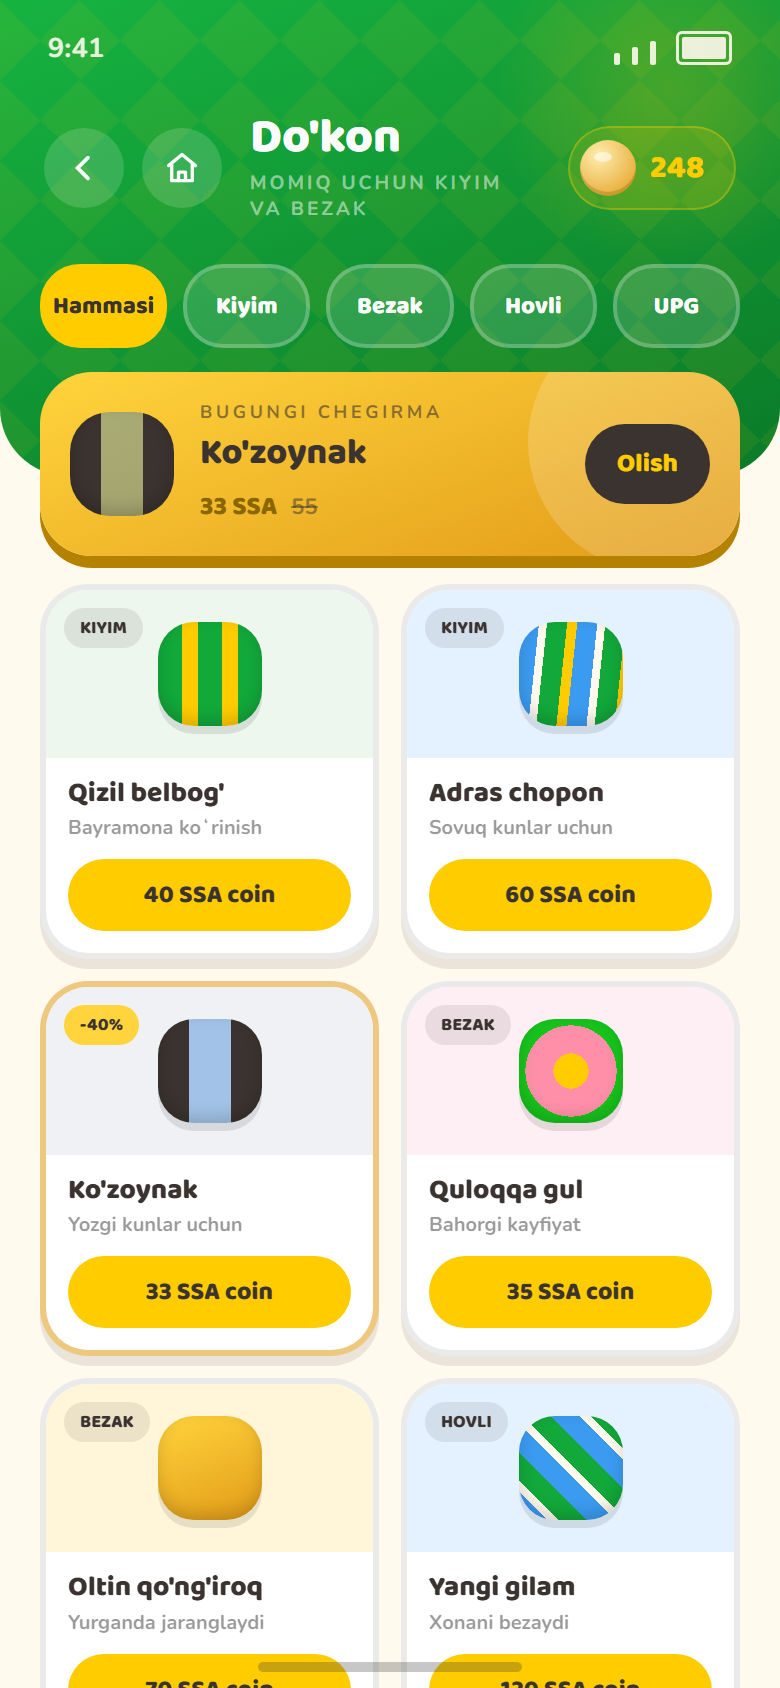
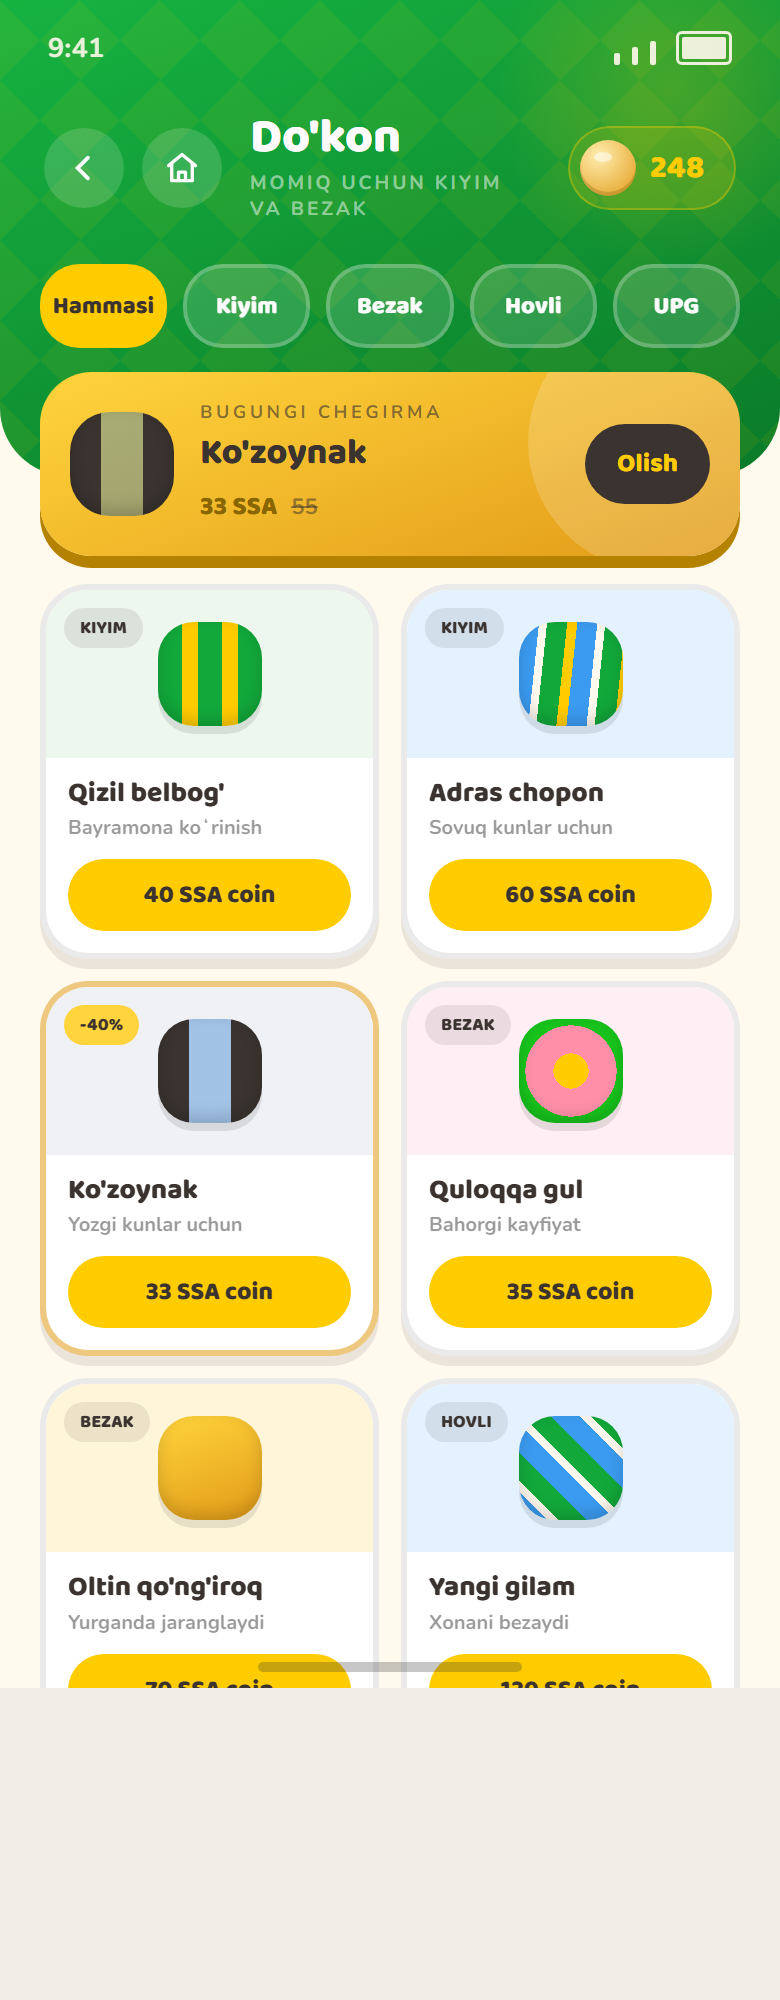
Do'kon: scroll + sotib olish zonalari (BuyItem, coin yechish)

diff --git a/Assets/Scripts/MomiqController.cs b/Assets/Scripts/MomiqController.cs
@@ -427,9 +427,21 @@ public class MomiqController : MonoBehaviour
 
     void BuildShop()
     {
-        ImgBg("dokon");
-        Zone(10, 42, 56, 52, () => Show("home"));
+        var content = BeginScroll(0);
+        var rt = Node("bg", content, 0, 0, SW, 1000);
+        rt.gameObject.AddComponent<Image>().sprite = UiSprite("dokon");
+        Zone(300, 224, 80, 44, () => BuyItem("kozoynak", 33));
+        Zone(30, 430, 155, 42, () => BuyItem("sharf", 40));
+        Zone(205, 430, 155, 42, () => BuyItem("chopon", 60));
+        Zone(30, 628, 155, 42, () => BuyItem("kozoynak", 33));
+        Zone(205, 628, 155, 42, () => BuyItem("gul", 35));
+        Zone(30, 822, 155, 42, () => BuyItem("qongiroq", 70));
+        Zone(205, 822, 155, 42, () => BuyItem("gilam", 120));
+        EndScroll(1000);
+        Zone(10, 42, 52, 52, () => Show("home"));
+        Zone(64, 42, 52, 52, () => Show("menu"));
     }
+
 
 
     void BuildAch()
@@ -1111,6 +1123,13 @@ public class MomiqController : MonoBehaviour
         var g = Node("mapi2", buildRoot, SW - 48, 32, 20, 20);
         var gi = g.gameObject.AddComponent<Image>(); gi.sprite = triSp; gi.color = stroke; gi.raycastTarget = false;
         Clickable(b.gameObject, a);
+    }
+    void BuyItem(string key, int price)
+    {
+        bool own = owned.ContainsKey(key) && owned[key];
+        if (own) { msg = "Allaqachon olingan!"; }
+        else if (coins >= price) { coins -= price; owned[key] = true; if (wear.ContainsKey(key)) wear[key] = true; coins += 0; React("kulgan", "Olindi! Rahmat.", 1.4f); Save(); }
+        else { React("xafa", "Coin yetarli emas.", 1.4f); }
     }
     void Clickable(GameObject go, Action onClick)
     {
